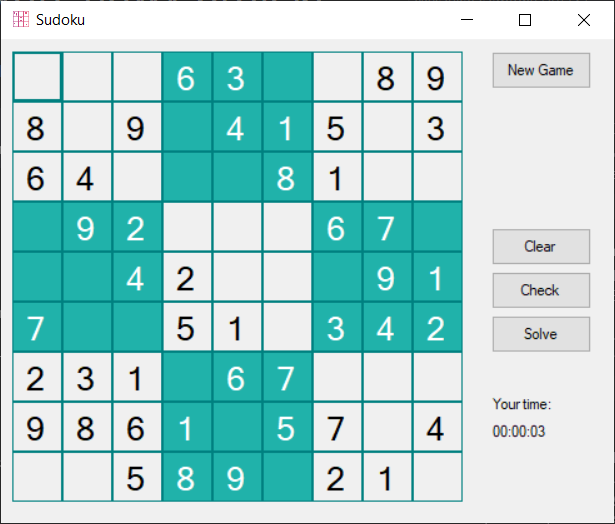
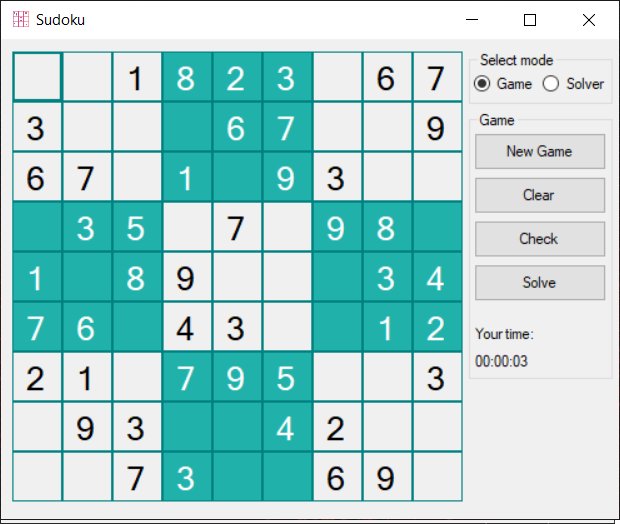
Check if puzzle is valid

diff --git a/Sudoku/SudokuForm.cs b/Sudoku/SudokuForm.cs
@@ -14,6 +14,9 @@ namespace Sudoku
 {
     public partial class SudokuForm : Form
     {
+        /// <summary>
+        /// UI for SudokuPuzzle using Windows Forms
+        /// </summary>
         public SudokuForm()
         {
             InitializeComponent();
@@ -222,21 +225,35 @@ namespace Sudoku
                     }
                 }
             }
-            puzzle.SolvePuzzle();
-            for (int i = 0; i < 9; i++) // Update the user interface
+            if (puzzle.CheckValidity()) // Check if in any column, row or square there are no duplicate values
             {
-                for (int j = 0; j < 9; j++)
+                puzzle.SolvePuzzle();
+                for (int i = 0; i < 9; i++) // Update the user interface
                 {
-                    cells[i, j].Value = puzzle.sudokuPuzzle[i, j].Value;
-                    cells[i, j].ForeColor = ((i / 3) + (j / 3)) % 2 == 0 ? Color.Black : Color.White; // Set the color depending of square
-                    if (!cells[i, j].IsLocked)
-                        cells[i, j].ForeColor = SystemColors.ControlDarkDark;   //Change the color in unlocked fields
-                    cells[i, j].Text = cells[i, j].Value.ToString();
-                    if (cells[i, j].Value == 0)
-                        cells[i, j].Clear();
+                    for (int j = 0; j < 9; j++)
+                    {
+                        cells[i, j].Value = puzzle.sudokuPuzzle[i, j].Value;
+                        cells[i, j].ForeColor = ((i / 3) + (j / 3)) % 2 == 0 ? Color.Black : Color.White; // Set the color depending of square
+                        if (!cells[i, j].IsLocked)
+                            cells[i, j].ForeColor = SystemColors.ControlDarkDark;   //Change the color in unlocked fields
+                        cells[i, j].Text = cells[i, j].Value.ToString();
+                        if (cells[i, j].Value == 0)
+                            cells[i, j].Clear();
+                    }
                 }
+                stopwatch.Reset();
             }
-            stopwatch.Reset();
+            else
+            {
+                for (int i = 0; i < 9; i++) // Update puzzle with user values
+                {
+                    for (int j = 0; j < 9; j++)
+                    {
+                        cells[i, j].IsLocked = false;    //Change field status to allow further field modification
+                    }
+                }
+                MessageBox.Show("Incorrect input");
+            }
         }
 
         private void rbModeChanged(object sender, EventArgs e)    // Changes app mode between game and solver

diff --git a/Sudoku/SudokuPuzzle.cs b/Sudoku/SudokuPuzzle.cs
@@ -6,6 +6,14 @@ using System.Threading.Tasks;
 
 namespace Sudoku
 {
+    /// <summary>
+    /// Class that:
+    /// - stores a sudoku puzzle
+    /// - generates a sudoku game (sudoku with blanks)
+    /// - checks user solution
+    /// - solves a game
+    /// - resets game
+    /// </summary>
     class SudokuPuzzle : Sudoku
     {
         public SudokuField[,] sudokuPuzzle { get;  }
@@ -104,6 +112,22 @@ namespace Sudoku
                     if (!(CheckSquare(sudokuPuzzle[i, j].Value, i, j) && CheckRow(sudokuPuzzle[i, j].Value, i, j) &&
                         CheckColumn(sudokuPuzzle[i, j].Value, i, j)))
                         return false;
+                }
+            }
+            return true;
+        }
+        public bool CheckValidity()
+        {
+            for (int i = 0; i < size; i++)
+            {
+                for (int j = 0; j < size; j++)
+                {
+                    if (sudokuPuzzle[i, j].Value!=0)    // only values of fields different then 0
+                    {
+                        if (!(CheckSquare(sudokuPuzzle[i, j].Value, i, j) && CheckRow(sudokuPuzzle[i, j].Value, i, j) &&
+                            CheckColumn(sudokuPuzzle[i, j].Value, i, j)))
+                            return false;
+                    }                        
                 }
             }
             return true;

diff --git a/Sudoku/Sudoku.cs b/Sudoku/Sudoku.cs
@@ -8,9 +8,9 @@ namespace Sudoku
 {
     /// <summary>
     ///  Class for generating 
-    ///  - fully filled sudoku (random numbers), 
+    ///  - fully filled sudoku (random), 
     ///  - sudoku with diagonal squares filled (random),
-    ///  - sudoku with custom solution.
+    ///  - setting sudoku with custom solution.
     /// </summary>
     
     class Sudoku
